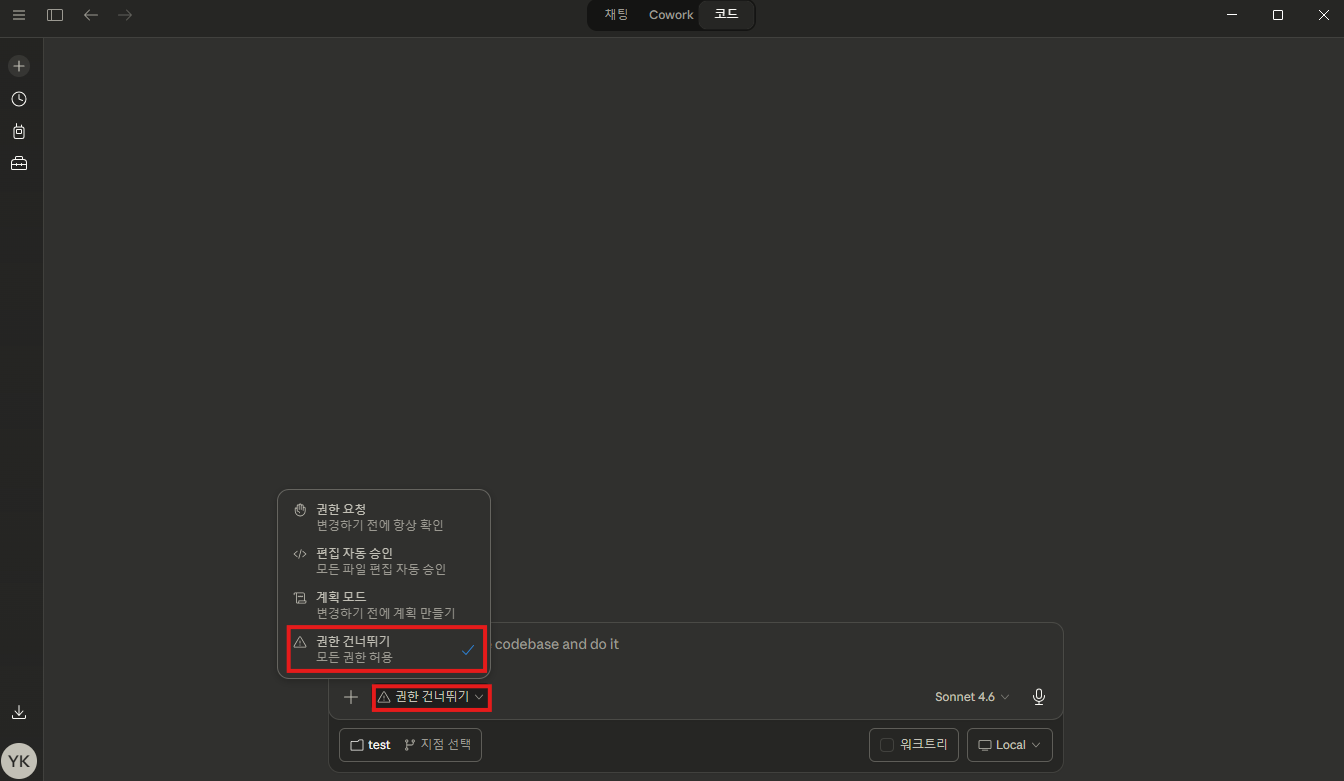
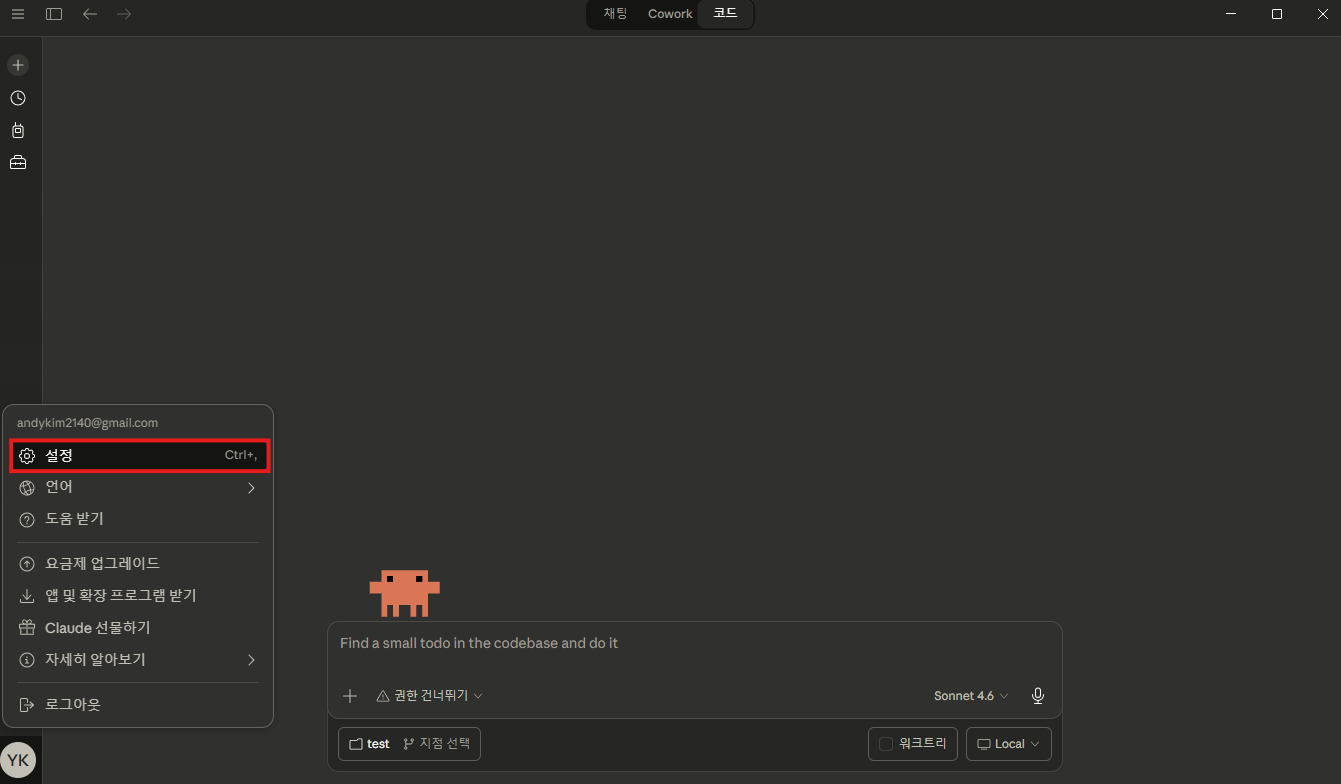
Add permission bypass setup images (p4, p5) to guide step 6

diff --git a/guide-oneshot.html b/guide-oneshot.html
@@ -553,8 +553,12 @@ body {
       6. 권한 건너뛰기 설정 <span class="acc-toggle">▼</span>
     </div>
     <div class="accordion-body">
-      <p style="font-size:14px; color:var(--text2); margin-bottom:12px;">입력창 왼쪽 아래의 권한 버튼을 클릭하고 <strong>"권한 건너뛰기"</strong>를 선택합니다. Claude가 매번 확인 없이 파일을 자유롭게 수정할 수 있게 됩니다.</p>
-      <img src="guides/p3.png" alt="권한 건너뛰기 설정" style="width:100%; border-radius:8px; border:1px solid var(--border); margin-top:8px;">
+      <p style="font-size:14px; color:var(--text2); margin-bottom:12px;">왼쪽 아래의 <strong>설정 버튼(⚙)</strong>을 클릭합니다.</p>
+      <img src="guides/p3.png" alt="설정 버튼 위치" style="width:100%; border-radius:8px; border:1px solid var(--border); margin-top:8px;">
+      <p style="font-size:14px; color:var(--text2); margin-bottom:12px; margin-top:12px;">설정에서 <strong>"권한 우회 모드 허용"</strong> 토글을 켭니다.</p>
+      <img src="guides/p4.png" alt="권한 우회 모드 허용 토글" style="width:100%; border-radius:8px; border:1px solid var(--border); margin-top:8px;">
+      <p style="font-size:14px; color:var(--text2); margin-bottom:12px; margin-top:12px;">입력창 왼쪽 아래의 권한 버튼을 클릭하고 <strong>"권한 건너뛰기"</strong>를 선택합니다. Claude가 매번 확인 없이 파일을 자유롭게 수정할 수 있게 됩니다.</p>
+      <img src="guides/p5.png" alt="권한 건너뛰기 설정" style="width:100%; border-radius:8px; border:1px solid var(--border); margin-top:8px;">
     </div>
   </div>
 
